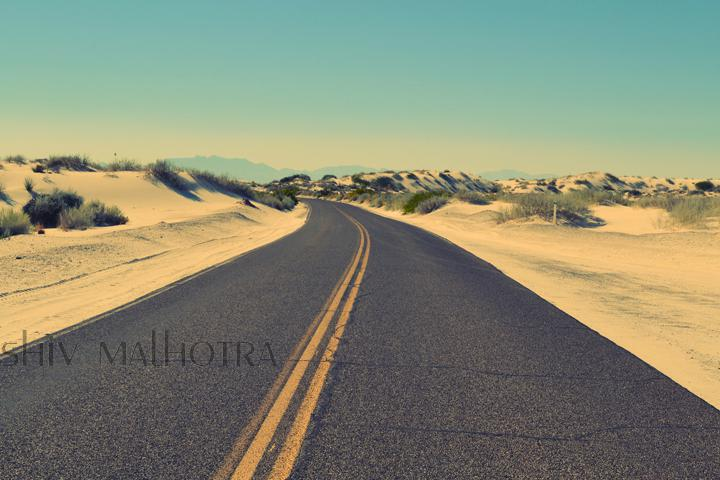
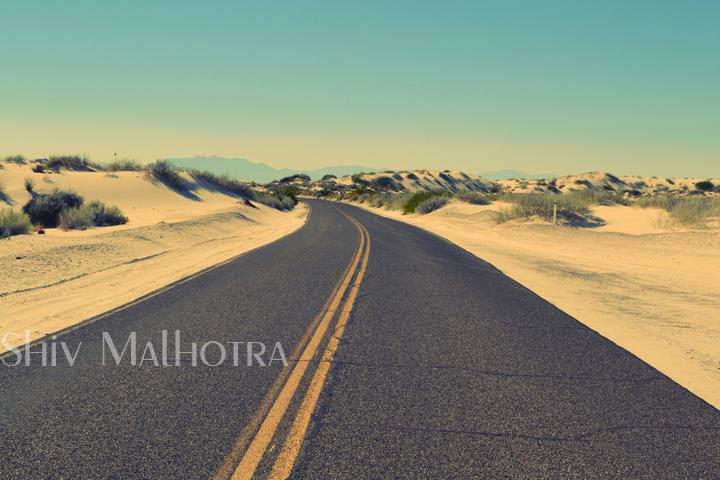
updates

Changed region(s): [[0.0, 0.6875, 0.3972, 0.7812]]

diff --git a/watermark.py b/watermark.py
@@ -10,9 +10,8 @@ import tkFileDialog
 from PIL import Image, ImageTk, ImageEnhance, ImageFont, ImageDraw
 import sys
 
-
-# textboxes to move watermark location
-# but for black or white
+#TO ADD:
+#textboxes to move watermark location
 
 class WaterMark(Frame):
     def __init__(self, master, image, image_name):
@@ -21,17 +20,18 @@ class WaterMark(Frame):
         self.image_name = image_name
 
         # make a blank image for the text, initialized to transparent text color
-        self.txt = Image.new('RGBA', self.image.size, (255,255,255,0))
+        self.blank_image = Image.new('RGBA', self.image.size, (255,255,255,0))
         self.fnt = ImageFont.truetype('MontereyFLF.ttf', 50)
-        self.d = ImageDraw.Draw(self.txt)
+        self.d = ImageDraw.Draw(self.blank_image)
 
+        #default watermark
         self.name = "watermark"
         self.loc_x = 0
         self.loc_y = 225
-        self.filler = (0,0,0,200)
-        self.d.text((self.loc_x, self.loc_y), self.name, font=self.fnt, fill=self.filler)
+        self.rgbo = (0,0,0,200)
+        self.d.text((self.loc_x, self.loc_y), self.name, font=self.fnt, fill=self.rgbo)
 
-        self.out = Image.alpha_composite(self.image, self.txt)
+        self.out = Image.alpha_composite(self.image, self.blank_image)
         self.tkim = ImageTk.PhotoImage(self.out)
 
         #display image
@@ -56,10 +56,10 @@ class WaterMark(Frame):
         b_save.pack()
 
     def update_color(self):    
-        if self.filler[0] == 255:
-            self.filler = (0,0,0,self.filler[3])
+        if self.rgbo[0] == 255:
+            self.rgbo = (0,0,0,self.rgbo[3])
         else:
-            self.filler = (255,255,255,self.filler[3])
+            self.rgbo = (255,255,255,self.rgbo[3])
         self.update()
 
     def update_text(self):
@@ -68,17 +68,16 @@ class WaterMark(Frame):
 
     def update_opacity(self, value):
         opacity = eval(value)
-        self.filler = (self.filler[0],self.filler[1],self.filler[2],opacity)
+        self.rgbo = (self.rgbo[0],self.rgbo[1],self.rgbo[2],opacity)
         self.update()
 
     def update(self):
-        self.txt = Image.new('RGBA', self.image.size, (255,255,255,0))
+        self.blank_image = Image.new('RGBA', self.image.size, (255,255,255,0))
         self.fnt = ImageFont.truetype('MontereyFLF.ttf', 50)
-        self.d = ImageDraw.Draw(self.txt)
-        self.d.text((self.loc_x, self.loc_y), self.name, font=self.fnt, fill=self.filler)
-        self.out = Image.alpha_composite(self.image, self.txt)
+        self.d = ImageDraw.Draw(self.blank_image)
+        self.d.text((self.loc_x, self.loc_y), self.name, font=self.fnt, fill=self.rgbo)
+        self.out = Image.alpha_composite(self.image, self.blank_image)
         self.tkim.paste(self.out)
-
 
     def save_image(self):
         #open original image
@@ -90,17 +89,18 @@ class WaterMark(Frame):
         y = (self.loc_y / float(self.image.size[1])) * im.size[1]
 
         #same as in init
-        txt = Image.new('RGBA', im.size, (255,255,255,0))
+        blank_image = Image.new('RGBA', im.size, (255,255,255,0))
         fnt = ImageFont.truetype('MontereyFLF.ttf', im.size[1]/10)
-        d = ImageDraw.Draw(txt)
-        d.text((x,y), self.name, font=fnt, fill=self.filler)
-        out = Image.alpha_composite(im, txt)
+        d = ImageDraw.Draw(blank_image)
+        d.text((x,y), self.name, font=fnt, fill=self.rgbo)
+        out = Image.alpha_composite(im, blank_image)
 
         out.save("watermark.jpg")
 
 
+#gui to open file from computer
 def openfile():
-
+         
     image_name = tkFileDialog.askopenfilename(parent=root)
     im = Image.open(image_name).convert('RGBA')
 
@@ -110,16 +110,20 @@ def openfile():
     
 
 ####main
-root = Tk()
-root.wm_title("watermark generator")
-root.geometry("800x1000")
+if __name__ == "__main__":
+     
+    ##set up root window
+    root = Tk()
+    root.wm_title("watermark generator")
+    root.geometry("800x1000")
 
-menubar = Menu(root)
-filemenu = Menu(menubar, tearoff=0)
-filemenu.add_command(label="Open", command=openfile)
-filemenu.add_separator()
-filemenu.add_command(label="Exit", command=root.quit)
-menubar.add_cascade(label="File", menu=filemenu)
+    ##set up menubar interface
+    menubar = Menu(root)
+    filemenu = Menu(menubar, tearoff=0)
+    filemenu.add_command(label="Open", command=openfile)
+    filemenu.add_separator()
+    filemenu.add_command(label="Exit", command=root.quit)
+    menubar.add_cascade(label="File", menu=filemenu)
 
-root.config(menu=menubar)
-root.mainloop()
+    root.config(menu=menubar)
+    root.mainloop()

diff --git a/README.md b/README.md
@@ -1,1 +1,7 @@
-# watermark-generator
+# Python Watermark Generator
+
+##Before:
+![alt tag](https://github.com/shivmalhotra/watermark-generator/blob/master/before.png)
+
+##After:
+![alt tag](https://github.com/shivmalhotra/watermark-generator/blob/master/watermark.jpg)
